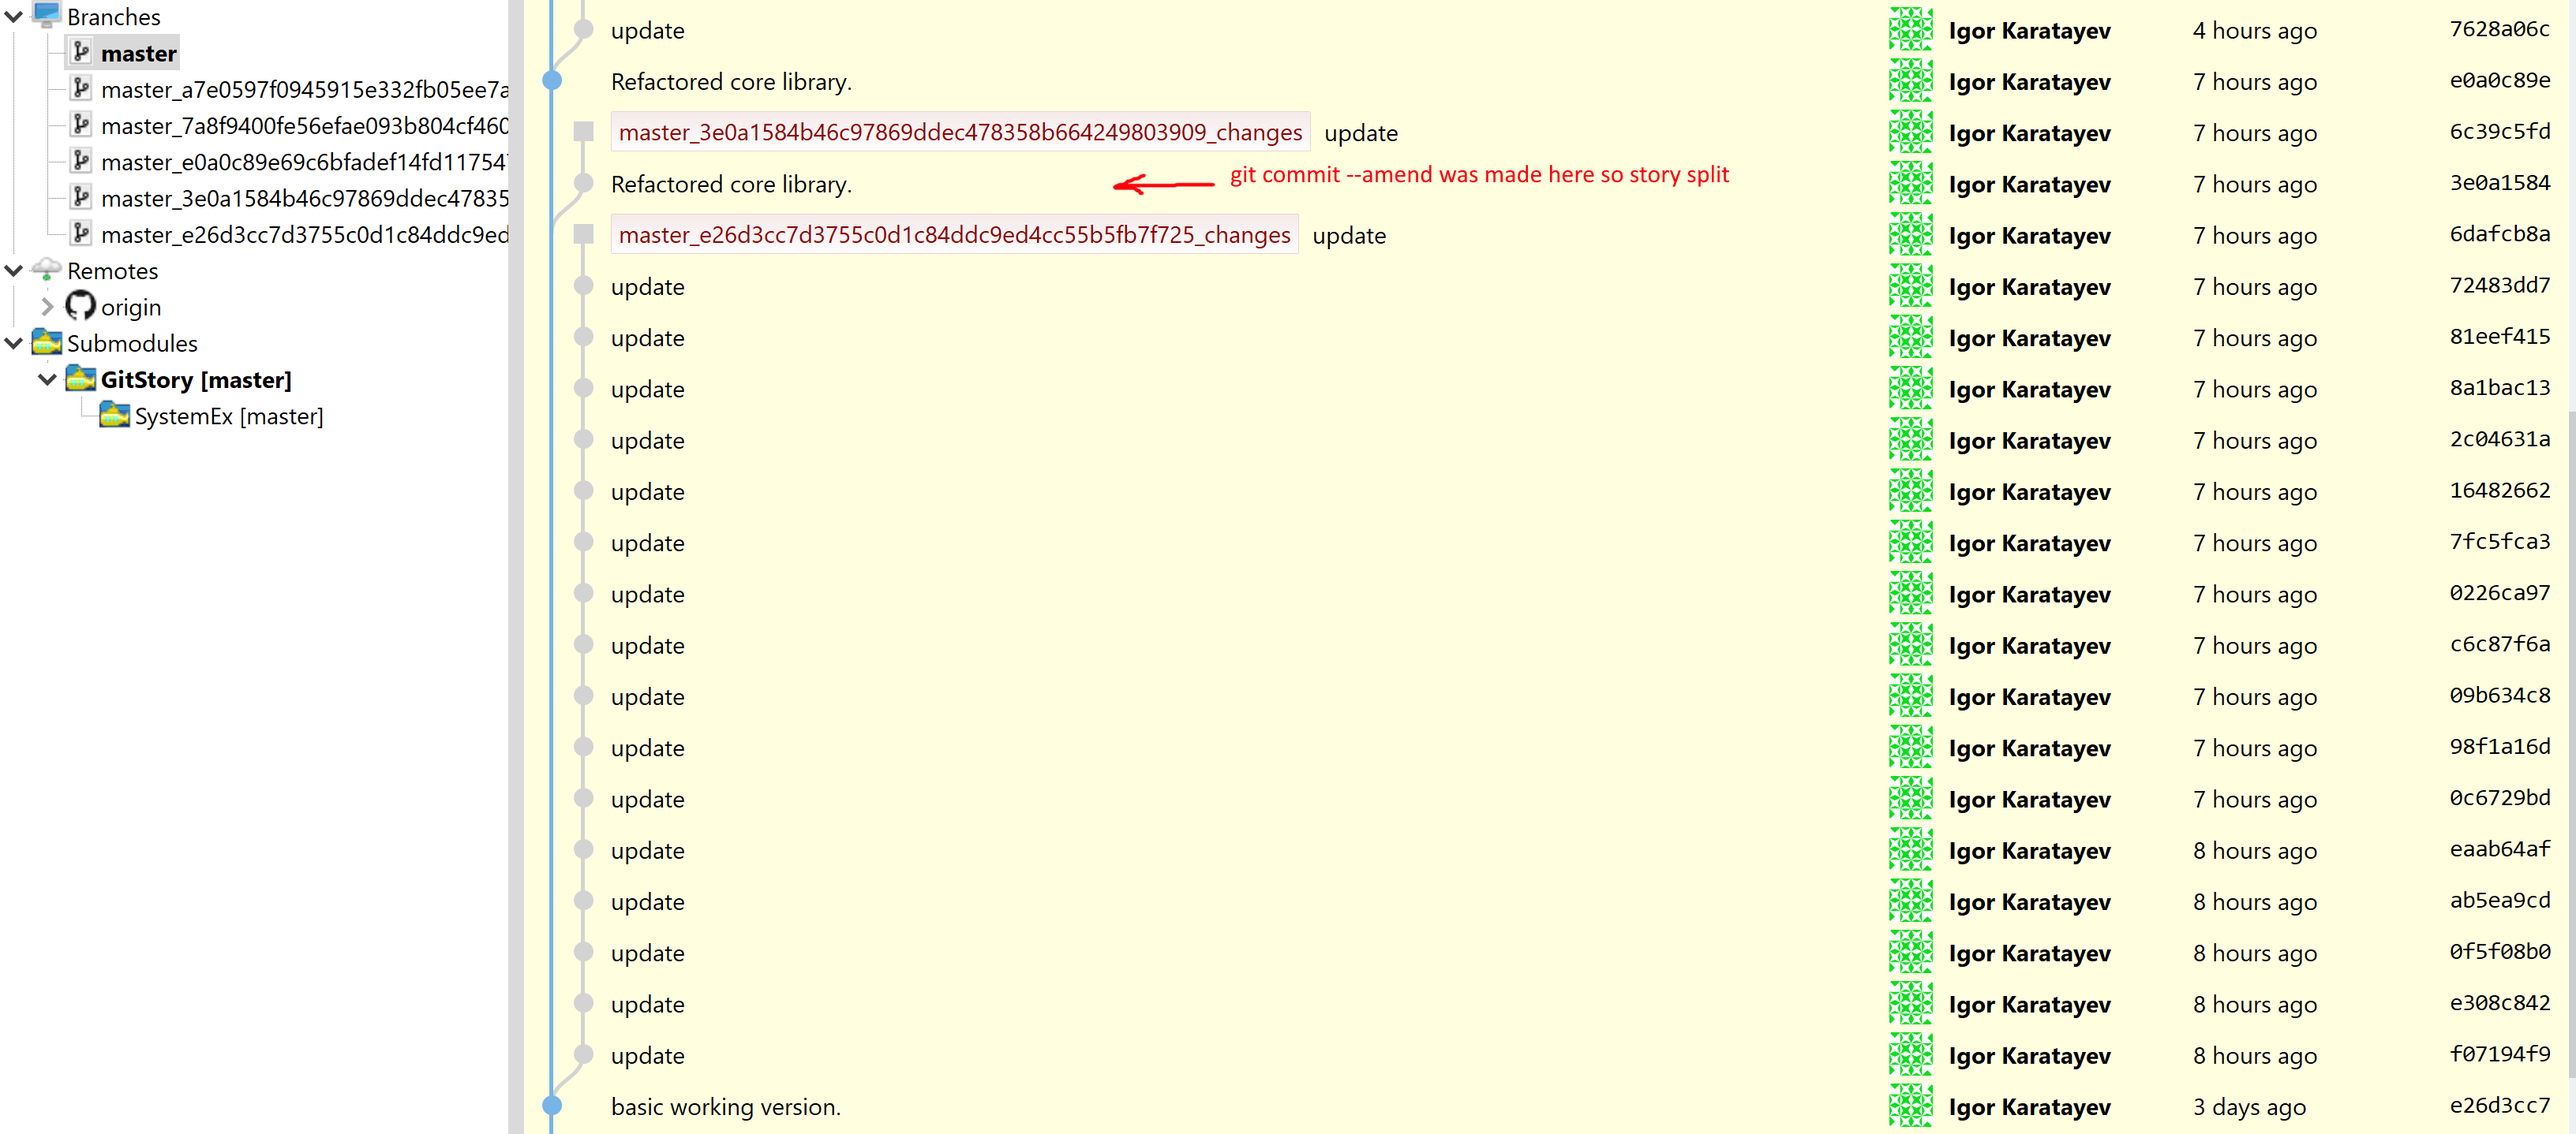
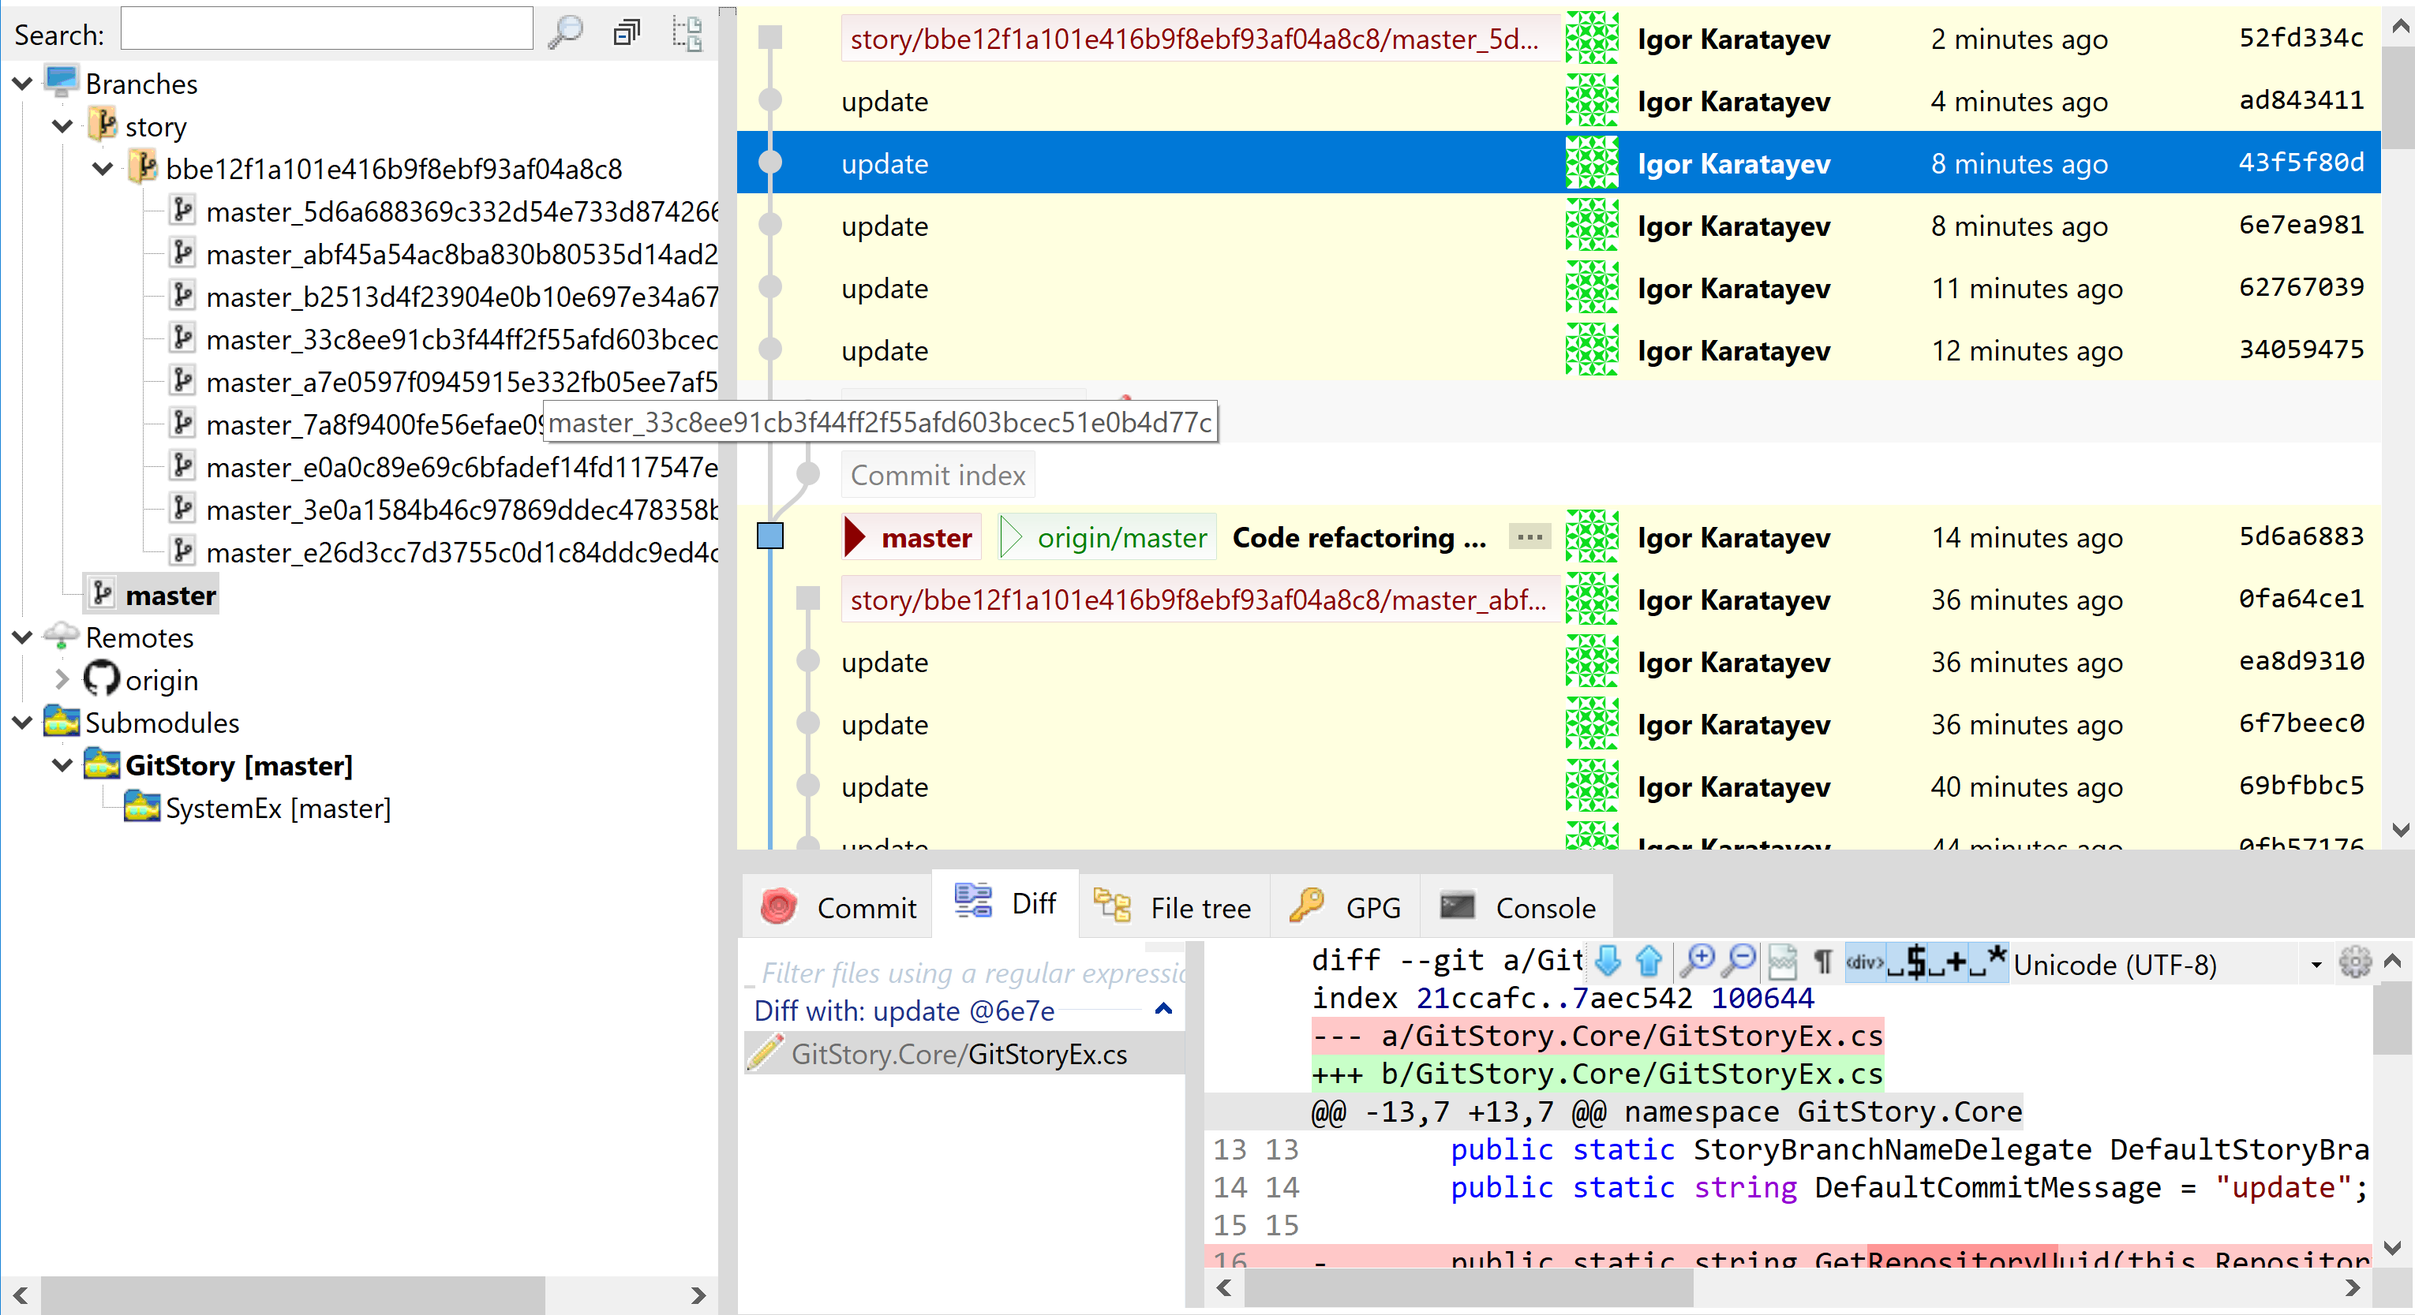
readme

diff --git a/README.md b/README.md
@@ -10,7 +10,7 @@ So the picture looks like this:
 
 ![](doc/20-03-2020.21-59-01.png)
 
-Parallel to the main branch there is a {branch}_{sha}_change branch with all micro-commits. The commit message is stupid, i was expecting git client showing time between commits but as commits age you have no luck restoring it visually. 
+Parallel to the current working branch there is a `refs/heads/story/{id}/{branch}_{sha}` branch with all micro-commits. The commit message is stupid, i was expecting git client showing time between commits but as commits age you have no luck restoring it visually. 
 
 I find it interesting tool of getting back to context of any of my numerous projects, some of them abandoned on a midst of the moment of implementation; what happened long time ago need to be particularly thorough.
 
@@ -38,6 +38,12 @@ GitStory.exe $@
 
 Name it `git-story` and put to path directory. That will add a `git story` command to git.
 
+## Setup
+
+Several repository config values can affect the behavior of that library.
+* `gitstory.uuid` - UUID of the repository. It can be set by hand, or is automatically generated if none is set. It affects the `{id}` part of branch name template and helps to avoid collisions between story branches by different authors.
+* `gitstory.commiter.name` - the name used in commiter signature for autogenerated commits. Default is "Git Story" if not set.
+* `gitstory.commiter.email` - the email used in commiter signature for autogenerated commits. Default is `user.email` if not set.
 
 ## PS
 
